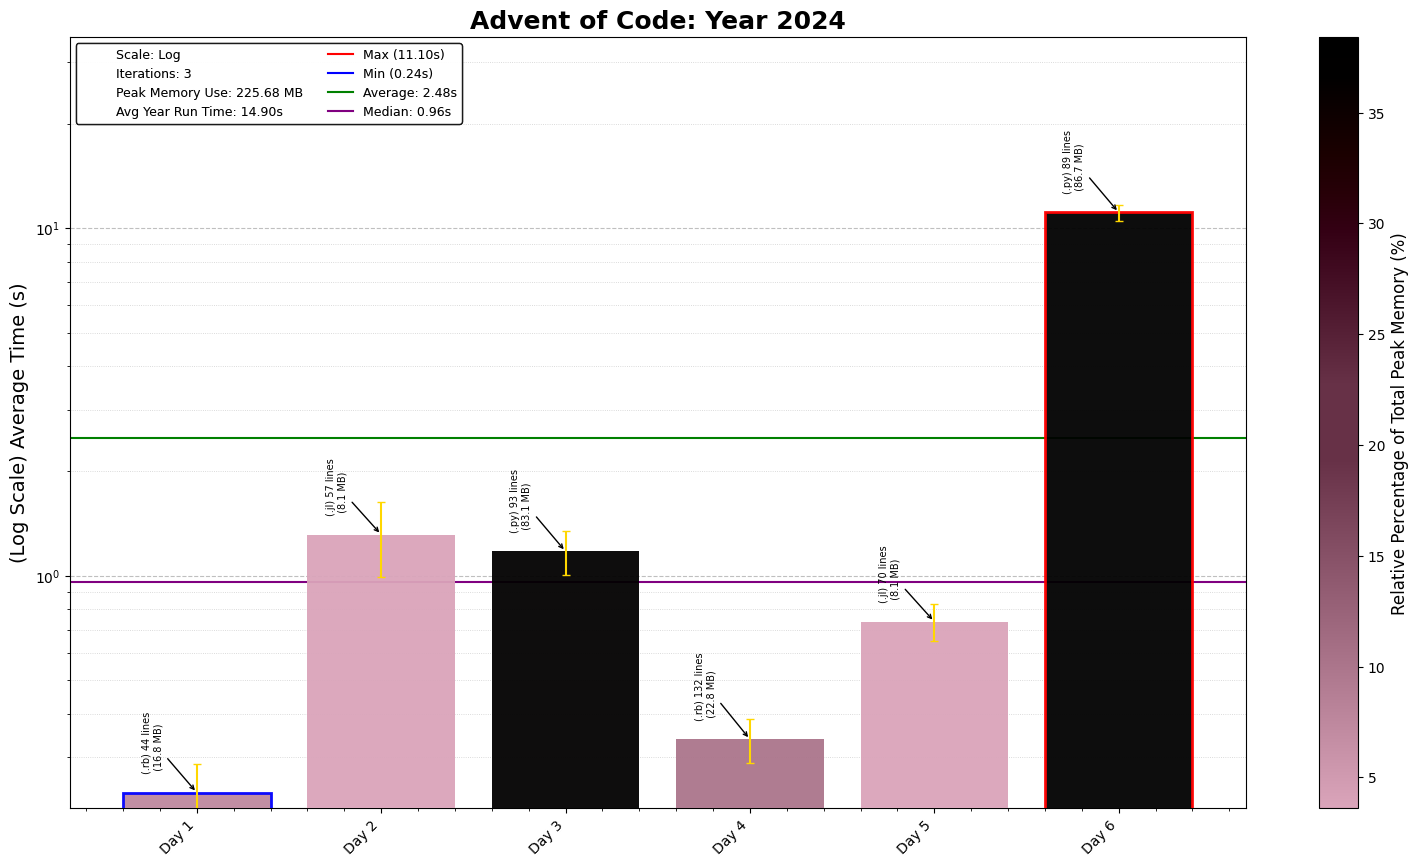
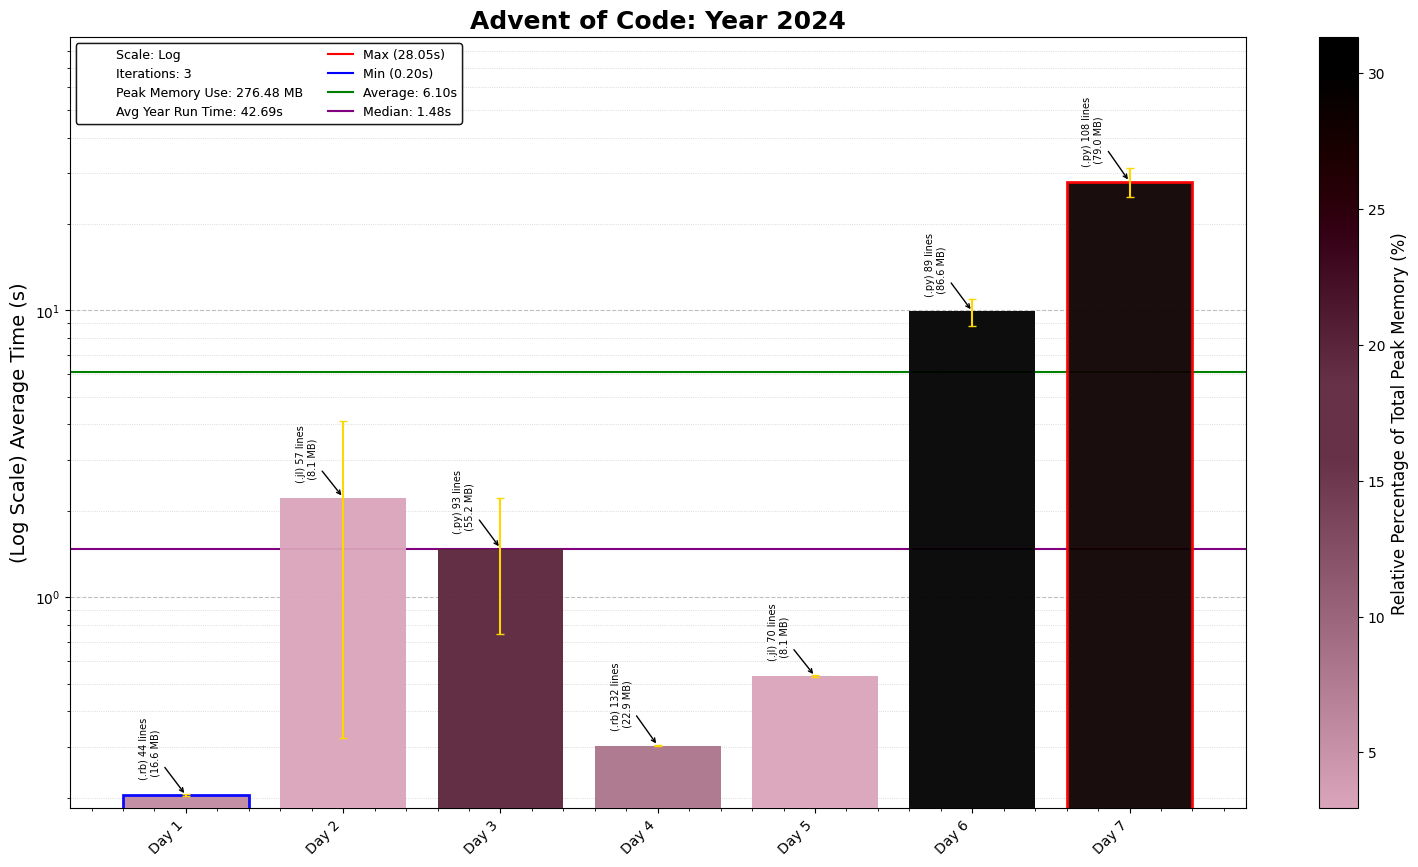
2024 Day 07

diff --git a/2024/07/2024Day07.py b/2024/07/2024Day07.py
@@ -1,0 +1,108 @@
+"""Advent of Code - Day 7, Year 2024
+Solution Started: Dec 7, 2024
+Puzzle Link: https://adventofcode.com/2024/day/7
+Solution by: abbasmoosajee07
+Brief: [Code/Problem Description]
+"""
+
+#!/usr/bin/env python3
+
+import os, time
+from itertools import product
+start_time = time.time()
+# Load the input data from the specified file path
+D07_file = "Day07_input.txt"
+D07_file_path = os.path.join(os.path.dirname(os.path.abspath(__file__)), D07_file)
+
+# Read and parse the input
+with open(D07_file_path) as file:
+    input_data = file.read().strip().split('\n')
+
+def parse_input(input):
+    num_dict = {}
+    for line in input:
+        target, blocks = line.split(': ')
+        num_dict[int(target)] = [int(num) for num in blocks.split(' ')]
+    return num_dict
+
+def can_build_target(target, blocks, operators=['+', '*', '-', '/', '||']): 
+    """
+    Determines if the target can be built using the blocks in order and basic operations.
+    
+    Args:
+        target (int): The target number.
+        blocks (list): A list of numbers that must be used in order.
+        operators (list): Valid set of operators ['+', '*', '-', '/', '||']
+    
+    Returns:
+        bool: True if the target can be formed, False otherwise.
+    """
+    # Cache of results to avoid duplicate evaluations
+    cache = {}
+
+    def evaluate(numbers, ops):
+        """
+        Evaluates an expression given numbers and operators.
+        """
+        key = (tuple(numbers), tuple(ops))
+        if key in cache:
+            return cache[key]
+
+        try:
+            result = numbers[0]
+            for i, op in enumerate(ops):
+                if op == '+':
+                    result += numbers[i + 1]
+                    if result > target:  # Early pruning for addition
+                        cache[key] = False
+                        return False
+                elif op == '*':
+                    result *= numbers[i + 1]
+                    if result > target and all(n > 0 for n in numbers):  # Early pruning for multiplication
+                        cache[key] = False
+                        return False
+                elif op == '||':
+                    # Concatenate the numbers and convert to integer
+                    result = int(str(int(result)) + str(int(numbers[i + 1])))
+                elif op == '-':
+                    result -= numbers[i + 1]
+                elif op == '/':
+                    if numbers[i + 1] == 0:  # Avoid division by zero
+                        cache[key] = False
+                        return False
+                    result /= numbers[i + 1]
+                    if not result.is_integer():  # Avoid non-integer results
+                        cache[key] = False
+                        return False
+
+            is_target = result == target
+            cache[key] = is_target
+            return is_target
+        except ZeroDivisionError:
+            return False
+
+    # Generate all combinations of operators for the given block order
+    for ops in product(operators, repeat=len(blocks) - 1):
+        if evaluate(blocks, ops):  # Stop if a valid expression is found
+            return True
+
+    return False
+
+def calibrate_machine(num_dict, operators):
+    # Calculate the calibration score
+    calibration = 0
+    for target, blocks in num_dict.items():
+        if can_build_target(target, blocks, operators):
+            calibration += target
+    return calibration
+
+bridge_dict = parse_input(input_data)
+
+# Part 1
+ans_p1 = calibrate_machine(bridge_dict, operators=['+', '*'])
+print("Part 1:", ans_p1)
+
+# Part 2
+ans_p2 = calibrate_machine(bridge_dict, operators=['+', '*', '||'])
+print("Part 2:", ans_p2)
+print("Total Time:",time.time()- start_time)

diff --git a/Create_Script.py b/Create_Script.py
@@ -9,10 +9,10 @@ from Polyglot_Setups.Setup_Julia  import create_julia_script
 from Polyglot_Setups.Setup_Python import create_python_script
 
 # Define default values for the Advent of Code challenge
-advent_day  = 6
+advent_day  = 7
 advent_year = 2024
 author_name = "abbasmoosajee07"
-selected_language = "python"  # Options: "python", "c", "julia", "ruby"
+selected_language = "ruby"  # Options: "python", "c", "julia", "ruby"
 
 # Dictionary mapping language names to their corresponding setup functions
 language_script_create_functions = {

diff --git a/Benchmarks/visualization.py b/Benchmarks/visualization.py
@@ -1,9 +1,11 @@
 import os, subprocess, glob, time, sys, re, psutil
 import numpy as np
 import pandas as pd
+import matplotlib
 import matplotlib.pyplot as plt
 import matplotlib.colors as mcolors
 from matplotlib.cm import ScalarMappable
+matplotlib.use('Qt5Agg')  # Non-GUI backend
 
 def generate_gradient_around_color(center_color, num_steps=10):
     """Create a gradient around the given center color."""

diff --git a/2024/06/2024Day06.py b/2024/06/2024Day06.py
@@ -2,7 +2,7 @@
 Solution Started: Dec 6, 2024
 Puzzle Link: https://adventofcode.com/2024/day/6
 Solution by: abbasmoosajee07
-Brief: [Code/Problem Description]
+Brief: [Guard Movements]
 """
 
 #!/usr/bin/env python3

diff --git a/2024/README_2024.md b/2024/README_2024.md
@@ -9,4 +9,5 @@ This repository contains coding solutions for the 2024 Advent of Code. Its the f
 3. **Day 3- Mull It Over**: *Python* | Used regex to find presence of all valid multiples, and then evaluate them. Seemed complicated originally until, you calm down and think of a clearer approach
 4. **Day 4- Ceres Search**: *Python* | Used a bfs type search to create a word search algorithm in a letter grid. Adapted some Everybody Codes Quest code for this and then converted that to ruby
 5. **Day 5- Print Queue**: *Julia* | Validating lists of numbers to match a set of rules, Fairly simple Part 1, Part 2 felt complicated until I looked at the megathread and found a different approach
-6. **Day 6- Guard Movements** *Ruby* | Pretty simple question overall with regards to the logic, but optimising it proved to be a fun challenge
+6. **Day 6- Guard Gallivant**: *Ruby* | Pretty simple question overall with regards to the logic, but optimising it proved to be a fun challenge
+7. **Day 7- Bridge Repair**: *Python* | Various permutations to build a target number with different blocks using the operators '+','*' and then '||'. Pretty simple once I realised i didn't have to permutate through all the operators
